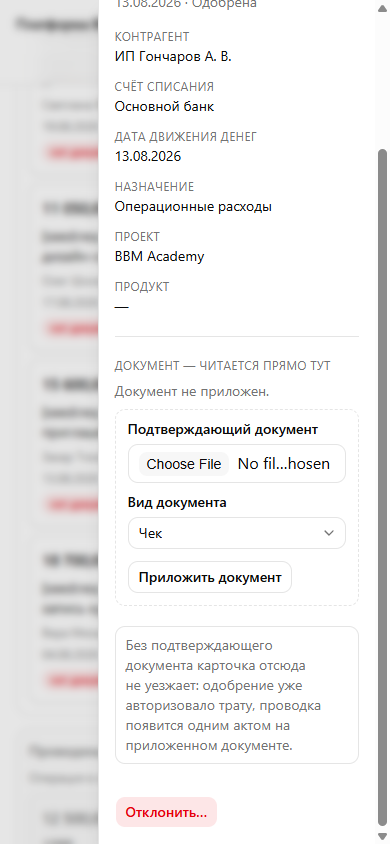
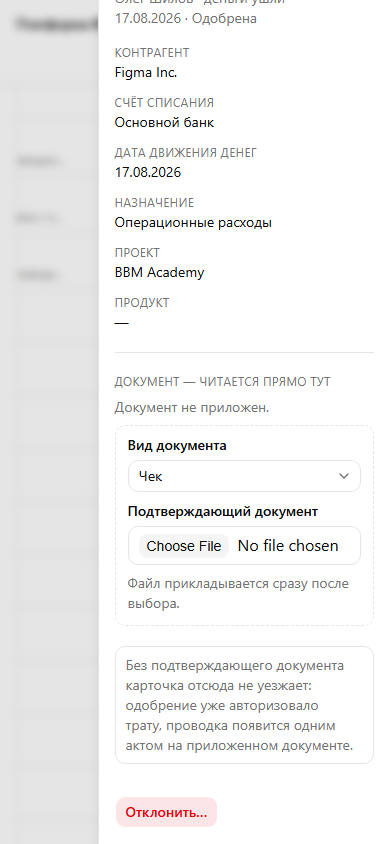
docs(evidence): #388 frames 06/18 re-taken after defect G at bd8e41f
Claude-Session: https://claude.ai/code/session_011kd2BsNuzjhwU6wPvr1q2h

diff --git a/docs/evidence/388/README.md b/docs/evidence/388/README.md
@@ -55,7 +55,7 @@ state), never hoped for from a pointer.
 | 14   | «Новая заявка» under CDP-FORCED `:hover`, `:focus-visible` and `:active` (desktop, both themes)                     |
 | 15   | after «Одобрить» — the success toast and the card now in «Одобрены — ждут документа»                                |
 | 17   | after a refusal with a reason — the card in «Отклонены», carrying the reason and the decider                        |
-| 18   | after «Приложить документ» — the sheet STAYS open, the PDF reads inline, «Провести» is now one click away           |
+| 18   | after the file is CHOSEN — the sheet STAYS open, the document reads inline, «Провести» is now one click away        |
 | 19   | after «Провести» — the toast «Операция проведена» and the card in «Проведены» with its ledger date                  |
 | 20   | a SEEDED posted request — the ledger operation and its postings instead of controls                                 |
 | 21   | «Новая заявка» with a real purpose — the card lands in «Ждут» and the toast says exactly that                       |
@@ -840,3 +840,52 @@ cell now reads «ещё не двигались» whole — the ninth-pass clip 
 last frame that carried it. Row changed in `platform_388` by that pass: **#44**
 refused. It is the PROCESS that failed, not the diff: the restarted stand ran the
 same mutation on the first attempt.
+
+**A THIRTEENTH pass at head `bd8e41f` — defect G: choosing the file IS attaching
+it.** The owner, on this stand on 2026-09-16, picked a PNG in an approved
+request's sheet and read the screen as «документ приложен» — then found no
+«Провести» and reported the board as unable to post. Nothing was broken in the
+transport: the block simply committed nothing until a SECOND control was pressed,
+an `outline` button «Приложить документ» sitting INSIDE the dashed block, where
+it reads as secondary next to the footer's acts. Everything else the sheet showed
+was still the TRUTH of an empty document block — «Документ не приложен.», the
+gate Alert, a footer offering only «Отклонить…» — so the reader's own act and the
+screen's account of it had come apart, and only the reader could tell they had.
+The fix (`bd8e41f`) removes the button: the file input's own `change` runs the same
+path (`documentUploadRefusal` → `POST /p/finance/api/documents`) immediately,
+the kind select moves FIRST because that pick now happens before the commit, and
+the field says so in words — «Файл прикладывается сразу после выбора.» There is
+no half-chosen state left to misread. `b8d6687` is the RED spec that pins the
+behaviour (a `change` with a valid file calls the upload with no click; no button
+named «Приложить документ» exists; a refused type shows the message and sends
+nothing).
+
+**Re-taken: 06 and 18**, each × {1440×900, 390×844} × {light, dark} — 8 frames
+replacing their same-name predecessors, viewport-clipped with the sheet scrolled
+to its foot, as before. 06 now shows the dashed block as «Вид документа» + a file
+picker with that helper line under it and no button at all; 18 shows the same
+sheet after nothing but the pick — the document line and its download link in the
+pane above, the gate Alert gone, and «Провести» standing in the footer as the
+filled primary beside «Отклонить…». Harness: `.playwright-mcp/w3f-capture.cjs`
+over `w3-lib.cjs` (git-ignored), same stand (`http://localhost:3000` from
+`.claude/worktrees/388`, the fix reached it through Fast Refresh) and the same
+branch DB `platform_388`.
+
+**No step forced a pseudo-state on the removed button.** Step 31 targets the
+dialog's own submit and has done since the third pass (the note above records the
+first take that did not); nothing else in the matrix named «Приложить документ».
+
+**Live verification, separately from the frames** (`.playwright-mcp/g-verify.cjs`):
+request **№12**, approved and carrying no document — setting a PNG on the input
+with NO click produced exactly one `POST /p/finance/api/documents` → **201**, the
+document rendered inline, «Провести» appeared, and the picker came back empty. On
+request **№13** an unsupported type (`вирус.js`) put «не принимается: …
+подтверждающий документ это PDF или изображение (EARS-514)» under the field, sent
+nothing, and left the input live. The one console error on the run is the
+pre-existing dev-only `color-scheme` hydration notice on `<html>`, unrelated to
+this block.
+
+**Rows changed in `platform_388` this pass.** Documents attached to **#12**
+(verification), **#15**, **#16**, **#17**, **#18** (one per combo — a request takes
+a document once, so 18 cannot be replayed on the same row). **#13** received a
+REFUSED pick and therefore no document, and no request's status was changed.
